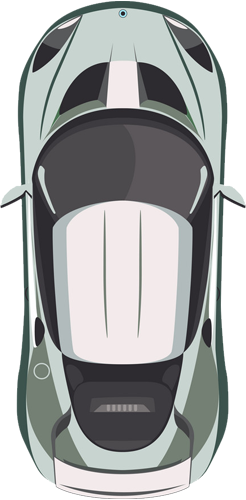
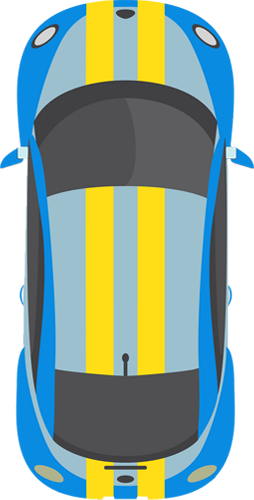
Simulating traffic.

diff --git a/js/car.js b/js/car.js
@@ -4,17 +4,27 @@ class Car {
   #acceleration;
   #friction;
 
-  constructor(position) {
+  constructor({ position, controlType }) {
     this.position = position;
 
     this.img = new Image();
-    // const { src, width } = Car.randomCar;
-    const { src, width } = Car.cars[1];
-    this.img.src = src;
-    this.width = width;
-    this.height = 75;
+    if (controlType !== "DUMMY") {
+      const playerCar = Car.player;
+      this.img.src = playerCar.src;
+      this.width = playerCar.width;
+      this.height = playerCar.height;
 
-    this.#maxSpeed = 5;
+      this.damagedCar = Car.damaged;
+      this.damagedCar.img = new Image();
+      this.damagedCar.img.src = this.damagedCar.src;
+    } else {
+      const { src, width, height } = Car.randomCar;
+      this.img.src = src;
+      this.width = width;
+      this.height = height;
+    }
+
+    this.#maxSpeed = controlType !== "DUMMY" ? 3 : 2;
     this.#acceleration = 0.1;
     this.#friction = 0.05;
 
@@ -22,26 +32,37 @@ class Car {
     this.angle = 0;
     this.damaged = false;
 
-    this.control = new Control();
-    this.sensor = new Sensor(this);
+    this.control = new Control(controlType);
+
+    if (controlType !== "DUMMY") this.sensor = new Sensor(this);
   }
 
-  update(roadBorders) {
+  update(roadBorders, traffic = []) {
     if (!this.damaged) {
       this.#move();
       this.segments = this.#createSegments();
-      this.damaged = this.#assesDamage(roadBorders);
+      this.damaged = this.#assesDamage(roadBorders, traffic);
     }
 
-    this.sensor.update(roadBorders);
+    if (this.sensor) this.sensor.update(roadBorders, traffic);
   }
 
-  #assesDamage(roadBorders) {
+  #assesDamage(roadBorders, traffic) {
     for (const roadBorder of roadBorders) {
       for (const segment of this.segments) {
         const touch = segment.getIntersection(roadBorder);
 
         if (touch) return true;
+      }
+    }
+
+    for (const car of traffic) {
+      for (const trafficSegment of car.segments) {
+        for (const segment of this.segments) {
+          const touch = segment.getIntersection(trafficSegment);
+
+          if (touch) return true;
+        }
       }
     }
 
@@ -104,22 +125,22 @@ class Car {
   }
 
   draw(canvas) {
-    this.sensor.draw(canvas);
+    if (this.sensor) this.sensor.draw(canvas);
 
     // if damaged, change image
-    if (this.damaged) this.img.src = Car.damaged.src;
+    const car = this.damaged ? this.damagedCar : this;
 
     canvas.save().translate(this.position).rotate(-this.angleRadian);
-    if (this.img.complete) {
+    if (car.img.complete) {
       // draw the car
       canvas.drawImage(
-        this.img,
+        car.img,
         {
-          x: -this.width / 2,
-          y: -this.height / 2,
+          x: -car.width / 2,
+          y: -car.height / 2,
         },
-        this.width,
-        this.height
+        car.width,
+        car.height
       );
     } else {
       // ohterwise, draw a placeholder
@@ -127,11 +148,11 @@ class Car {
         .beginPath()
         .rect(
           {
-            x: -this.width / 2,
-            y: -this.height / 2,
+            x: -car.width / 2,
+            y: -car.height / 2,
           },
-          this.width,
-          this.height
+          car.width,
+          car.height
         )
         .fill();
     }
@@ -163,18 +184,17 @@ class Car {
       {
         src: "cars/car-1.png",
         width: 36.9,
+        height: 75,
       },
       {
         src: "cars/car-2.png",
-        width: 36.9,
+        width: 38,
+        height: 75,
       },
       {
         src: "cars/car-3.png",
         width: 39,
-      },
-      {
-        src: "cars/car-4.png",
-        width: 38,
+        height: 75,
       },
     ];
   }
@@ -185,10 +205,19 @@ class Car {
     return Car.cars[randomIndex];
   }
 
+  static get player() {
+    return {
+      src: "cars/car-player.png",
+      width: 36.9,
+      height: 75,
+    };
+  }
+
   static get damaged() {
     return {
       src: "cars/car-damaged.png",
       width: 36.9,
+      height: 75,
     };
   }
 }

diff --git a/js/sensor.js b/js/sensor.js
@@ -9,21 +9,28 @@ class Sensor {
     this.readings = [];
   }
 
-  update(roadBorders) {
+  update(roadBorders, traffic) {
     this.#castRays();
     this.readings = [];
     for (const ray of this.rays) {
-      this.readings.push(this.#getReading(ray, roadBorders));
+      this.readings.push(this.#getReading(ray, roadBorders, traffic));
     }
   }
 
-  #getReading(ray, roadBorders) {
+  #getReading(ray, roadBorders, traffic) {
     let touches = [];
     for (const border of roadBorders) {
       const touch = ray.getIntersection(border);
 
       if (touch) touches.push(touch);
     }
+
+    for (const car of traffic)
+      for (const segment of car.segments) {
+        const touch = ray.getIntersection(segment);
+
+        if (touch) touches.push(touch);
+      }
 
     if (touches.length === 0) {
       return null;
@@ -65,11 +72,11 @@ class Sensor {
       if (this.readings[i]) end = this.readings[i];
 
       canvas.beginPath().line(ray.start, end).stroke({
-        color: "#ff0",
+        color: "#f00",
         width: 2,
       });
 
-      canvas.beginPath().line(ray.end, end).stroke({ color: "#f00" });
+      canvas.beginPath().line(ray.end, end).stroke({ color: "#ff0" });
     }
   }
 }

diff --git a/js/script.js b/js/script.js
@@ -5,13 +5,23 @@ const canvas = new Canvas({
 });
 
 const road = new Road(canvas.center.x, canvas.width - 20);
-const car = new Car(new Vector(road.getLaneCenter(1), canvas.height - 100));
+const car = new Car({
+  position: new Vector(road.getLaneCenter(1), canvas.height - 100),
+  controlType: "KEYS",
+});
+const traffic = [
+  new Car({
+    position: new Vector(road.getLaneCenter(1), 0),
+    controlType: "DUMMY",
+  }),
+];
 
 // Rendering
 animate();
 
 function animate() {
-  car.update(road.borders);
+  for (const car of traffic) car.update(road.borders);
+  car.update(road.borders, traffic);
 
   canvas.clear();
 
@@ -20,6 +30,7 @@ function animate() {
     y: -car.position.y + canvas.height - car.width - 50,
   });
   road.draw(canvas);
+  for (const car of traffic) car.draw(canvas);
   car.draw(canvas);
 
   canvas.restore();

diff --git a/js/control.js b/js/control.js
@@ -1,11 +1,17 @@
 class Control {
-  constructor() {
+  constructor(type) {
     this.forward = false;
     this.left = false;
     this.right = false;
     this.reverse = false;
 
-    this.#addKeyboardListeners();
+    switch (type) {
+      case "KEYS":
+        this.#addKeyboardListeners();
+        break;
+      case "DUMMY":
+        this.forward = true;
+    }
   }
 
   #addKeyboardListeners() {

diff --git a/README.md b/README.md
@@ -10,7 +10,8 @@ https://fauzan-radji.github.io/self-driving-car/
 
 This repo is based on [this course](https://youtube.com/playlist?list=PLB0Tybl0UNfYoJE7ZwsBQoDIG4YN9ptyY) by [Radu Mariescu-Istodor](https://www.youtube.com/c/RaduMariescuIstodor):
 
-1. [Car driving mechanics](https://youtu.be/NkI9ia2cLhc).
-2. [Defining the road](https://youtu.be/IxhrXKEVCsc).
-3. [Artificial sensors](https://youtu.be/2AKMSO2Gocs).
-4. [Collision detection](https://youtu.be/M8kq2eJRIp0).
+1. [Car driving mechanics.](https://youtu.be/NkI9ia2cLhc)
+2. [Defining the road.](https://youtu.be/IxhrXKEVCsc)
+3. [Artificial sensors.](https://youtu.be/2AKMSO2Gocs)
+4. [Collision detection.](https://youtu.be/M8kq2eJRIp0)
+5. [Simulating traffic.](https://youtu.be/s3MpIa63BXY)
